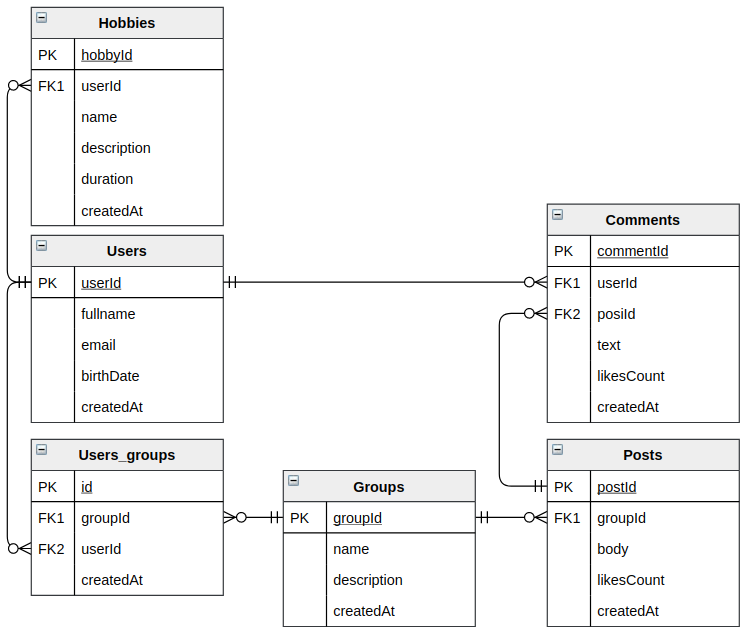
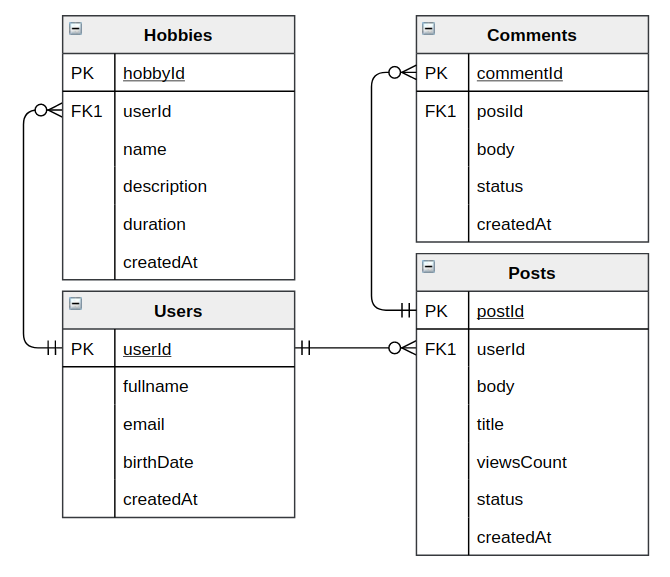
added common access pattern realizations

Changed region(s): [[0.0, 0.0, 0.9851, 0.9983]]

diff --git a/functions/blog.js b/functions/blog.js
@@ -1,0 +1,156 @@
+'use strict';
+
+const uuidv1 = require('uuid/v1');
+const AWS = require('aws-sdk');
+const moment = require('moment');
+const utils = require('../utils');
+
+let dynamo = new AWS.DynamoDB.DocumentClient();
+
+const TableName = process.env.BLOG_TABLE;
+const BLOG_TABLE_GSI_Inverted = process.env.BLOG_TABLE_GSI_Inverted;
+const BLOG_TABLE_GSI_Status = process.env.BLOG_TABLE_GSI_Status;
+const BLOG_TABLE_GSI3_PublishedPosts = process.env.BLOG_TABLE_GSI3_PublishedPosts;
+
+const STATUS = {
+  new: 'new',
+  published: 'published',
+  blocked: 'blocked'
+};
+
+const newDate = () => moment().format('YYYY-MM-DD HH:mm:ss.SSS');
+const putUser = async (event, context, callback) => {
+  const { fullname, birthDate, hobbies } = JSON.parse(event.body);
+  const userId = event.requestContext.authorizer.claims.sub;
+  const email = event.requestContext.authorizer.claims.email;
+  const user = {
+    PK: `USER#${userId}`,
+    SK: `PROFILE#${userId}`,
+    fullname,
+    email,
+    birthDate,
+    hobbies,
+    createdAt: newDate()
+  };
+  await dynamo.put({
+    TableName,
+    Item: user,
+  }).promise();
+  callback(null, utils.createResponse(200, userId));
+};
+
+const putPost = async (event, context, callback) => {
+  const { title, body } = JSON.parse(event.body);
+  console.log(event.body);
+  const userId = event.requestContext.authorizer.claims.sub;
+  const postId = uuidv1();
+  const date = newDate();
+  const post = {
+    PK: `USER#${userId}`,
+    SK: `POST#${postId}`,
+    title,
+    body,
+    viewsCount: 0,
+    postStatusDate: `${STATUS.new}#${date}`,
+    createdAt: date
+  };
+  await dynamo.put({
+    TableName,
+    Item: post,
+  }).promise();
+  callback(null, utils.createResponse(200, postId));
+};
+
+const putComment = async (event, context, callback) => {
+  const postId = event.pathParameters.postId;
+  const { body } = JSON.parse(event.body);
+  const commentId = uuidv1();
+  const comment = {
+    PK: `COMMENT#${commentId}`,
+    SK: `POST#${postId}`,
+    body,
+    createdAt: newDate()
+  };
+  await dynamo.put({
+    TableName,
+    Item: comment,
+  }).promise();
+  callback(null, utils.createResponse(200, commentId));
+};
+
+const getUserProfile = async (event, context, callback) => {
+  const userId = event.pathParameters.userId;
+  const { Item } = await dynamo.get({
+    TableName,
+    Key: {
+      PK: `USER#${userId}`,
+      SK: `PROFILE#${userId}`,
+    }
+  }).promise();
+  callback(null, utils.createResponse(200, Item));
+};
+
+const getPostComments = async (event, context, callback) => {
+  const postId = event.pathParameters.postId;
+  const result = await dynamo.query({
+    TableName,
+    IndexName: BLOG_TABLE_GSI_Inverted,
+    KeyConditionExpression: 'SK = :sk and begins_with(PK, :pk)',
+    ExpressionAttributeValues: {
+      ':sk': `POST#${postId}`,
+      ':pk': `COMMENT#`
+    }
+  }).promise();
+  callback(null, utils.createResponse(200, result));
+};
+
+const getPostsByUser = async (event, context, callback) => {
+  const userId = event.pathParameters.userId;
+  const result = await dynamo.query({
+    TableName,
+    KeyConditionExpression: 'PK = :pk and begins_with(SK, :sk)',
+    ExpressionAttributeValues: {
+      ':pk': `USER#${userId}`,
+      ':sk': `POST#`
+    }
+  }).promise();
+  callback(null, utils.createResponse(200, result));
+};
+
+const getUserPostsByStatus = async (event, context, callback) => {
+  const userId = event.pathParameters.userId;
+  const status = event.pathParameters.status;
+  const date = event.pathParameters.date;
+  const result = await dynamo.query({
+    TableName,
+    IndexName: BLOG_TABLE_GSI_Status,
+    KeyConditionExpression: 'PK = :pk and begins_with(postStatusDate, :status)',
+    ExpressionAttributeValues: {
+      ':pk': `USER#${userId}`,
+      ':status': `${status}#${date}`,
+    },
+    ScanIndexForward: false
+  }).promise();
+  callback(null, utils.createResponse(200, result));
+};
+
+const getPublishedPosts = async (event, context, callback) => {
+  const result = await dynamo.scan({
+    TableName,
+    IndexName: BLOG_TABLE_GSI3_PublishedPosts,
+  }).promise();
+  callback(null, utils.createResponse(200, result));
+};
+
+module.exports = {
+  putUser,
+  putPost,
+  putComment,
+  getUserProfile,
+  getPostsByUser,
+  getPostComments,
+  getUserPostsByStatus,
+  getPublishedPosts
+};
+
+

diff --git a/dynamo-db.md b/dynamo-db.md
@@ -1,27 +1,23 @@
-## A social network
+## Blog table
 
-#### 1. Database ERD
+#### 1. Create database ERD
 ![image](dynamodb-assets/dynamodb_erd.png)
 
-#### 2. Access patterns (questions to database)
-- get user details (user info and hobbies)
-- get comments for user
-- get groups for user
-- get posts for group by status
-- get single group with posts
-- get sent posts
-
+#### 2. Define access patterns (questions to database)
+1. get user profile (user info and hobbies)
+2. get posts for user
+3. get single post with comments
+4. get posts for user by status
+5. get published posts
+    
 #### 3. Define primary and sort keys
 
 | Entities        | PK                          | SK                               |
 | --------------- |:----------------------------|:---------------------------------|
-| user            | USER#&lt;userId&gt;         | DETAILS#&lt;userId&gt;           |
+| user            | USER#&lt;userId&gt;         | PROFILE#&lt;userId&gt;           |
 | user hobby      | -                           | -                                |
-| user group      | USER#&lt;userId&gt;         | GROUP#&lt;groupId&gt;            |
-| group           | GROUP#&lt;groupId&gt;       | DETAILS#&lt;groupId&gt;          |
-| post            | GROUP#&lt;groupId&gt;       | POST#&lt;postId&gt;              |
+| post            | USER#&lt;userId&gt;         | POST#&lt;postId&gt;              |
 | comment         | COMMENT#&lt;commentId&gt;   | POST#&lt;postId&gt;              |
-| comment users   | COMMENT#&lt;commentId&gt;   | USER#&lt;userId&gt;              |
 
 
 ##### One-to-many patterns:
@@ -42,7 +38,10 @@
 
 
 
-##### Choosing an index
-[Local or global: Choosing a secondary index type in DynamoDB](https://www.dynamodbguide.com/local-or-global-choosing-a-secondary-index-type-in-dynamo-db)
+#### Choosing a secondary index in DynamoDB
+
+Sometimes it's hard to define which type of index should be used.
+Following schema displays how to choose index type:
 
 ![image](https://user-images.githubusercontent.com/6509926/72526710-a66b7c80-382c-11ea-8923-dbb9c9589881.png)
+[Link to source](https://www.dynamodbguide.com/local-or-global-choosing-a-secondary-index-type-in-dynamo-db)
